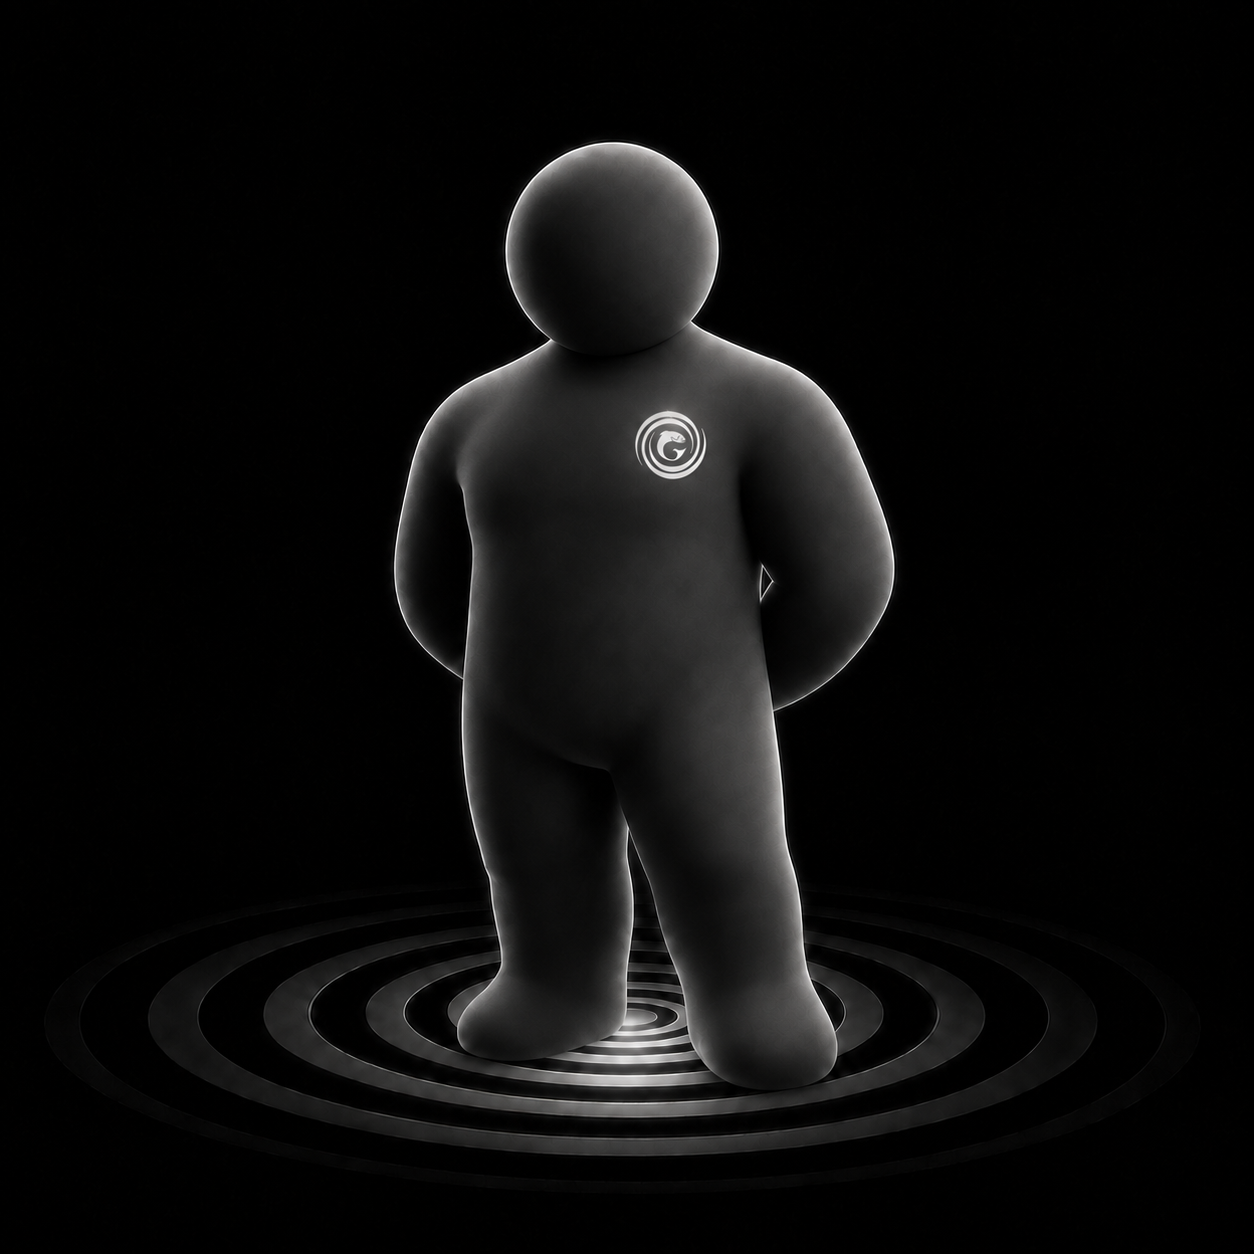
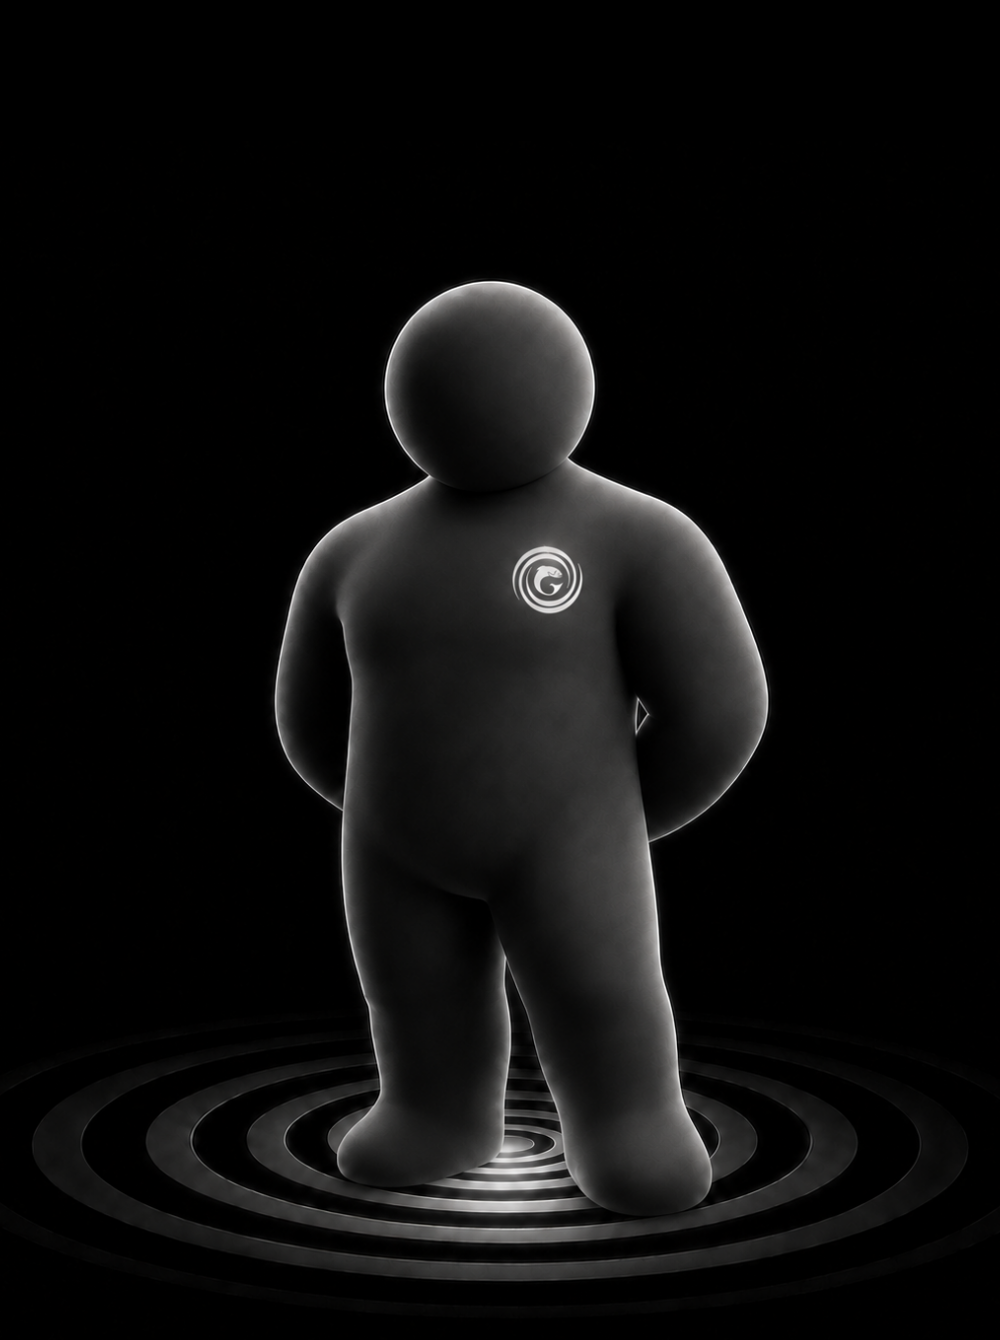
About/People: normalize figure heights (equal body, hat rises)
The three figures shared one 1254² canvas but sat at different scales, and
object-contain shrank Scott's body ~14% to fit his top hat. Re-rendered all
three onto one normalized canvas: equal head-top→feet body height, shared
baseline + head line, hat rising into the headroom. CSS now renders natural
aspect instead of a forced square.

Changed region(s): [[0.124, 0.0933, 0.868, 0.9641]]

diff --git a/components/LetsTalk.js b/components/LetsTalk.js
@@ -353,8 +353,11 @@ const S = {
   person: { display: 'flex', flexDirection: 'column' },
   // The figures are light-on-black art; 'screen' drops the black background
   // so they float on the overlay instead of sitting in a visible black box.
+  // The three figure PNGs are pre-normalized to one canvas (equal body
+  // height, shared feet baseline + head line, hat rising into the headroom),
+  // so natural aspect renders them consistently. 'screen' drops the black bg.
   personImg: {
-    width: '100%', aspectRatio: '1 / 1', objectFit: 'contain', display: 'block',
+    width: '100%', height: 'auto', display: 'block',
     mixBlendMode: 'screen', marginBottom: 8,
   },
   personName: { fontFamily: SANS, fontSize: 17, fontWeight: 600, color: '#fff' },
